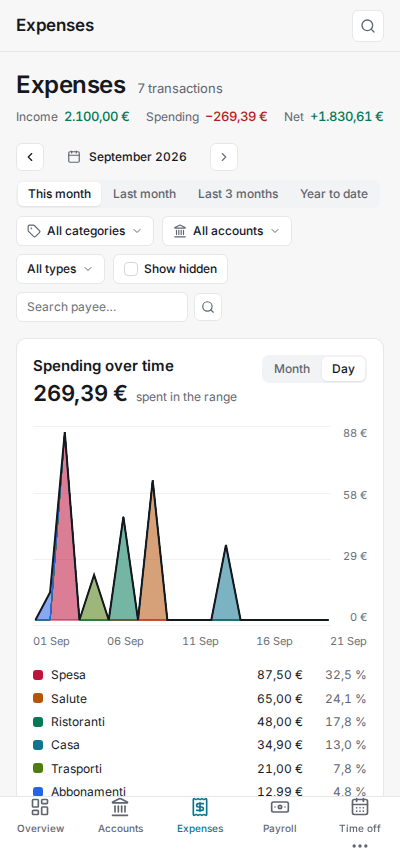
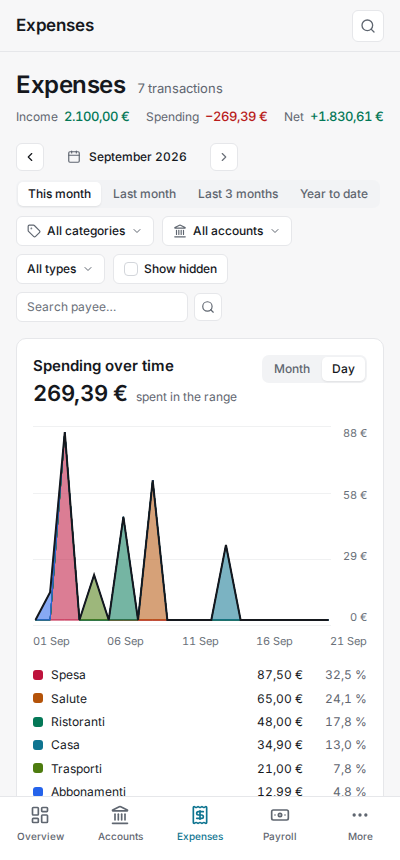
fix(shell): la barra mobile torna a cinque celle, con Altro nell'ultima
La quinta cella della barra in basso è Altro (spec §8.2: «schede in basso
Overview · Accounts · Expenses · Payroll · More»). F7 ha aggiunto Ferie come
quinta scheda: il pulsante Altro, che ha `col-start-5`, è finito in una
seconda riga implicita che l'altezza fissa della barra tagliava a metà — è
quello che si vede negli screenshot mobile in docs/.

Ferie torna nel foglio Altro, nel gruppo Lavoro, dove il resto delle pagine
non-scheda già vive. Un test su navFor fissa l'invariante, così la prossima
fase non ripete l'errore, e l'e2e di Ferie ora verifica che la pagina sia
raggiungibile dal foglio invece di pretendere una scheda.

Screenshot di docs/ rigenerati con `npm run docs:shots`: i tre mobile mostrano
la barra corretta, i tre desktop erano semplicemente vecchi.

diff --git a/tests/e2e/mobile.spec.ts b/tests/e2e/mobile.spec.ts
@@ -174,11 +174,19 @@ test.describe("time off on a phone", () => {
     await page.goto("/timeoff");
     await expect(page.getByRole("heading", { name: "Work & Time off", level: 1 })).toBeVisible();
 
-    // Time off is a bottom tab, in the Work group.
+    // Time off is not a bottom tab: the bar's fifth cell is More (spec §8.2), so it lives in the
+    // sheet, under Work. A fifth tab used to take that cell and clip More onto a second row.
     const tabs = page
       .getByRole("navigation", { name: "Primary" })
       .filter({ has: page.getByRole("button", { name: "More" }) });
-    await expect(tabs.getByRole("link", { name: "Time off" })).toBeVisible();
+    await expect(tabs.getByRole("link", { name: "Time off" })).toBeHidden();
+    await tabs.getByRole("button", { name: "More" }).click();
+    const sheet = page.getByRole("dialog", { name: "More" });
+    await expect(
+      sheet.getByRole("group", { name: "Work" }).getByRole("link", { name: "Time off" }),
+    ).toHaveAttribute("aria-current", "page");
+    await page.keyboard.press("Escape");
+    await expect(sheet).toBeHidden();
 
     // Both cards in the same unit since N5 — days, ROL included — and the provenance of each.
     await expect(page.getByTestId("vacation-card")).toContainText("days remaining");

diff --git a/src/app/(app)/navigation.test.ts b/src/app/(app)/navigation.test.ts
@@ -31,3 +31,21 @@ describe("navFor", () => {
     ]);
   });
 });
+
+describe("the mobile tab bar", () => {
+  /**
+   * The bar is five cells wide and the fifth belongs to More (spec §8.2: "schede in basso
+   * Overview · Accounts · Expenses · Payroll · More"). A fifth `mobile` item takes that cell,
+   * so More is placed in an implicit second row that the bar's fixed height clips — which is
+   * what `timeoff` did to it from F7 until this test.
+   */
+  it("leaves the fifth cell to More, so four items at most are tabs", () => {
+    for (const role of ["user", "admin"] as const) {
+      expect(
+        navFor(role)
+          .filter((item) => item.mobile)
+          .map((item) => item.id),
+      ).toEqual(["overview", "accounts", "expenses", "payroll"]);
+    }
+  });
+});

diff --git a/src/app/(app)/navigation.ts b/src/app/(app)/navigation.ts
@@ -107,7 +107,8 @@ export const NAV_ITEMS: readonly NavItem[] = [
     labelKey: "timeoff",
     icon: "timeoff",
     group: "work",
-    mobile: true,
+    // Not a tab: the bar's fifth cell is More, and a fifth tab pushed it into a clipped row.
+    mobile: false,
     adminOnly: false,
   },
   {
